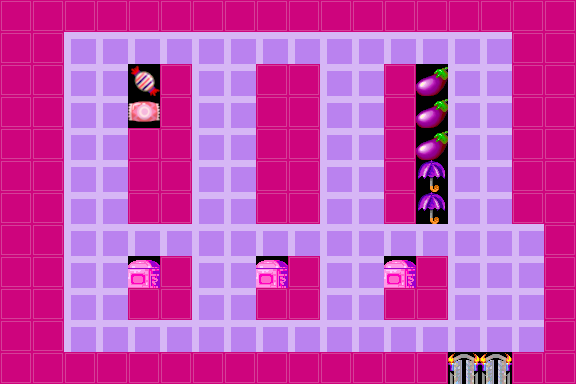
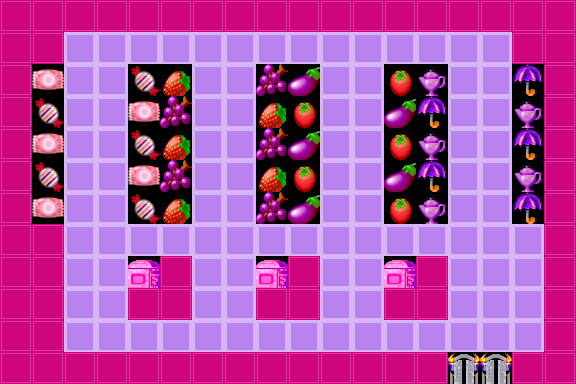
aeaui

diff --git a/code/tiles.py b/code/tiles.py
@@ -2,24 +2,7 @@ import numpy as np
 import cv2
 import time
 
-TILE_SIZE = 32
-OFS = 50
-
-MARKET = """
-##################
-##..............##
-##..b#..##..#O..##
-##..c#..##..#O..##
-##..##..##..#O..##
-##..##..##..#u..##
-##..##..##..#u..##
-##...............#
-##..C#..C#..C#...#
-##..##..##..##...#
-##...............#
-##############GG##
-""".strip()
-
+from utils.constances import TILE_SIZE, OFS, MARKET
 
 class SupermarketMap:
     """Visualizes the supermarket background"""
@@ -60,18 +43,30 @@ class SupermarketMap:
         # eggplant
         elif char == 'O':
             return self.get_tile_parameters(11, 1)
+        # grapes
+        elif char == 't':
+            return self.get_tile_parameters(4, 4)
+        # strawberry
+        elif char == 's':
+            return self.get_tile_parameters(5,1)
+        # tomato
+        elif char == 'T':
+            return self.get_tile_parameters(5, 3)
         # pink umbrella
         elif char == 'u':
             return self.get_tile_parameters(9, 2)
+        # vase
+        elif char == 'v':
+            return self.get_tile_parameters(10,0)
         # candy 1
         elif char == 'b':
-            return self.get_tile_parameters(3,0)
+            return self.get_tile_parameters(3, 0)
         # candy 2
         elif char == 'c':
-            return self.get_tile_parameters(3,1)
+            return self.get_tile_parameters(3, 1)
 
         else:
-            return self.get_tile_parameters(2,1)
+            return self.get_tile_parameters(2, 1)
 
 
     def prepare_map(self):

diff --git a/code/customer.py b/code/customer.py
@@ -1,23 +1,30 @@
 import numpy as np
 
+# local imports
+from tiles import SupermarketMap
+from utils.constances import ALL_STATES, TILES, TILE_SIZE, STATE_LOCATION
+
 class Customer:
   '''
   a single customer that moves through the supermarket in a MCMC simulation
   '''
-
-  # class variables
-  all_states = ['checkout', 'dairy', 'drinks', 'fruit', 'spices']
-
-  
-  def __init__(self, id, state, transition_mat):
+  def __init__(self, id, state, transition_mat, terrain_map):
     '''initiate'''
     self.id = id
     self.state = state
     self.transition_mat = transition_mat
     self.history = []
 
+    # visualization
+    self.terrain_map = terrain_map
+    self.image = TILES[7 * TILE_SIZE : 8 * TILE_SIZE, : TILE_SIZE]
+    self.x = STATE_LOCATION[self.state][1] * TILE_SIZE
+    self.y = STATE_LOCATION[self.state][0] * TILE_SIZE
+
   def __repr__(self):
-    '''define the print return'''
+    '''
+    define the print return
+    '''
     return f'<Customer {self.id} in {self.state}>'
 
   def is_active(self):
@@ -34,5 +41,10 @@ class Customer:
     Returns nothing.
     '''
     self.history.append(self.state)
-    self.state = np.random.choice(self.all_states, p = self.transition_mat.loc[self.state])
+    self.state = np.random.choice(ALL_STATES, p = self.transition_mat.loc[self.state])
+
+  def draw(self, frame):
+    x_pos = OFS + self.x * TILE_SIZE
+    y_pos = OFS + self.y * TILE_SIZE
+    frame[y_pos : y_pos + TILE_SIZE, x_pos : x_pos + TILE_SIZE] = self.image
 

diff --git a/code/main.py b/code/main.py
@@ -1,7 +1,41 @@
-from supermarket import Supermarket
-from scenarios import *
+import numpy as np
+import cv2
 
+# local import
+from tiles import SupermarketMap
+from customer import Customer
+from utils.constances import MARKET, TILES
 
-simulate_n_customers(5)
+if __name__ == "__main__":
 
-# simulate_normal_day(0.8)
+    background = np.zeros((700, 1000, 3), np.uint8)
+    # tiles = cv2.imread("./graphics/tiles.png")
+
+    market = SupermarketMap(MARKET, TILES)
+
+    # instantiate a customer
+    # customer = Customer(market, tiles[7 * TILE_SIZE : 8 * TILE_SIZE, : TILE_SIZE], 2, 2)
+
+    while True:
+        frame = background.copy()
+        market.draw(frame)
+        # customer.draw(frame)
+
+        cv2.imshow("frame", frame)
+
+        key = chr(cv2.waitKey(1) & 0xFF)
+        # if key == 'w':
+        #     customer.move('up')
+        # elif key == 'a':
+        #     customer.move('left')
+        # elif key == 'd':
+        #     customer.move('right')
+        # elif key == 's':
+        #     customer.move('down')
+
+        if key == "q":
+            break
+
+    cv2.destroyAllWindows()
+
+    market.write_image("./graphics/supermarket.png")

diff --git a/code/utils/constances.py b/code/utils/constances.py
@@ -1,0 +1,32 @@
+import cv2
+
+ALL_STATES = ['checkout', 'dairy', 'drinks', 'fruit', 'spices']
+
+STATE_LOCATION = {
+  'dairy': [3, 4],
+  'drinks': [7,4],
+  'fruit': [11, 4],
+  'spices': [15, 4],
+  'checkout': [3, 8],
+  'entrance': [14, 11]
+}
+
+TILE_SIZE = 32
+OFS = 50
+
+MARKET = """
+##################
+##..............##
+#c..bs..tO..Tv..u#
+#b..ct..sT..Ou..v#
+#c..bs..tO..Tv..u#
+#b..ct..sT..Ou..v#
+#c..bs..tO..Tv..u#
+##...............#
+##..C#..C#..C#...#
+##..##..##..##...#
+##...............#
+##############GG##
+""".strip()
+
+TILES = cv2.imread("./graphics/tiles.png")

diff --git a/code/a_star.py b/code/a_star.py
@@ -36,7 +36,7 @@ def get_path_from_finish(current):
 
 
 def create_neighbours(poss_moves, current_node, finish_node, grid_array, frontier):
-    """Creates neighbour-nodes for current node and adds them to the frontier-list"""
+    """Creates neighbor-nodes for current node and adds them to the frontier-list"""
 
     for move in poss_moves:
         node_position = (current_node.location[0] + move[0],

diff --git a/code/utils/sim_functions.py b/code/utils/sim_functions.py
@@ -1,0 +1,11 @@
+
+from constances import TILE_SIZE
+
+
+def get_tile_parameters(y, x):
+  '''
+  returns the pixels for a tile
+  in order to make it easier it first takes the y and than the x so one can count the tiles in the more comfortable way x,y
+  '''
+  return [x * TILE_SIZE : (x + 1) * TILE_SIZE, y * TILE_SIZE : (y + 1) * TILE_SIZE]
+
